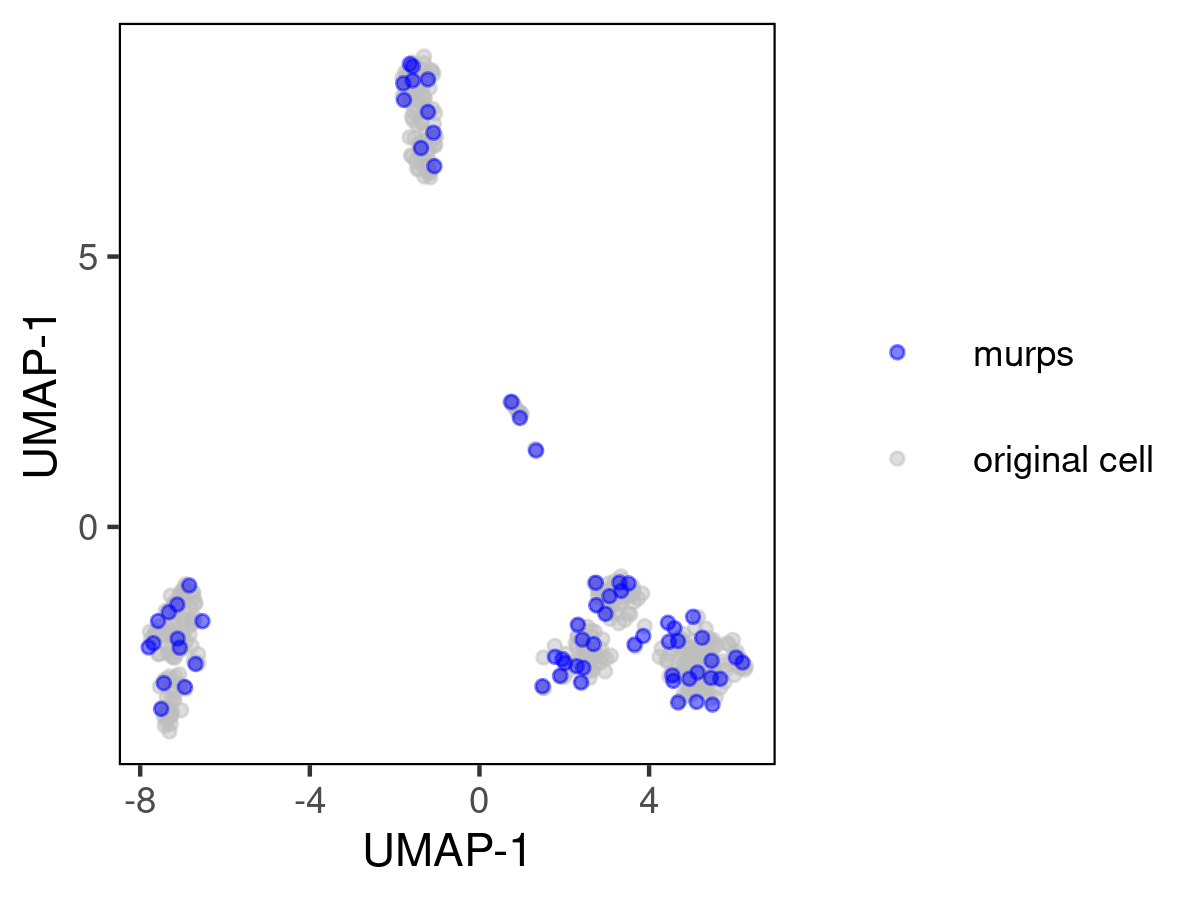
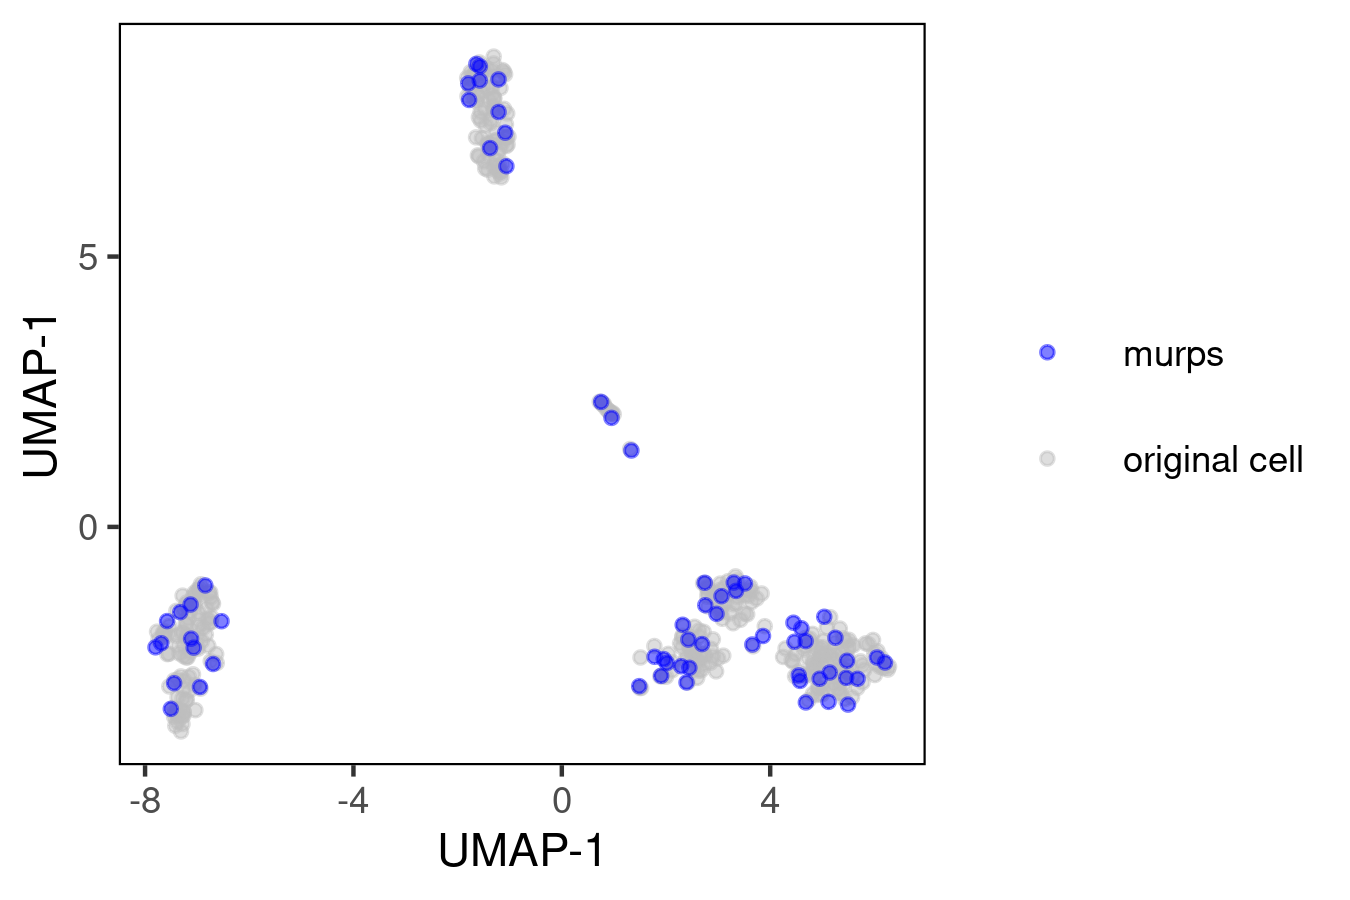
readme

diff --git a/README.md b/README.md
@@ -8,16 +8,16 @@ MURP is an ongoing research project and we will keep providing more tutorials an
 ## Introduction
 MURP is aimed to divide the cell population into homogeneous subgroups so that within each subgroup, the gene-wise variations are identically and independently distributed; whereas the between-group variations represent the relevant biological processes.
 
-<img src="figure/figure1.png" width="600">
+<div align=center><img src="figure/figure1.png" width="650"></div>
 
 We applied MURP to both simulated and real scRNA-seq datasets of different tissue origins and compared it with existing downsampling methods. The results showed that MURP can improve the quality and accuracy of clustering algorithms, and thus facilitate the discovery of new cell types.
 
 ### simulated datasets
 
-<img src="figure/figure2.png" width="600">
+<div align=center><img src="figure/figure2.png" width="650"></div>
 
 ### scRNA-seq datasets
-<img src="figure/figure4.png" width="500">
+<div align=center><img src="figure/figure4.png" width="500"></div>
 
 ## Installation
 
@@ -33,10 +33,12 @@ We recommend using the normalized expression matrix for calculations.
 data(sdata)
 result = MURP(Data = sdata, type = "expr", cores = 1, iter = 20, omega = 1/6, seed = 723)
 ggplot2::ggsave("bic_plot.png", KBicPlot(murpResult = result), width = 4, height = 4)
-ggplot2::ggsave("bic_grid_plot.png", MURPNestedGridPlot(murpResult = result), width = 4, height = 4)
+ggplot2::ggsave("bic_grid_plot.png", MURPNestedGridPlot(murpResult = result), 
+                width = 4, height = 4)
 ```
 
-<img src="figure/bic_grid_plot.png" width="350">
+<div align=center><img src="figure/bic_grid_plot.png" width="380"></div>
+
 
 ```r
 c = result$Recommended_K_cl$centers
@@ -57,11 +59,11 @@ p <- ggplot(df, aes(x = X1, y = X2, color = col)) +
         panel.grid.minor=element_blank(),
         panel.grid.major=element_blank(),
         legend.key.size = unit(0.9, "cm") )
-ggsave("umap.png", p, width = 4, height = 3)
+ggsave("umap.png", p, width = 4.5, height = 3)
 
 ```
 
-<img src="figure/umap.png" width="400">
+<div align=center><img src="figure/umap.png" width="450"></div>
 
 ## Citation
 If you use MURP, please cite:
